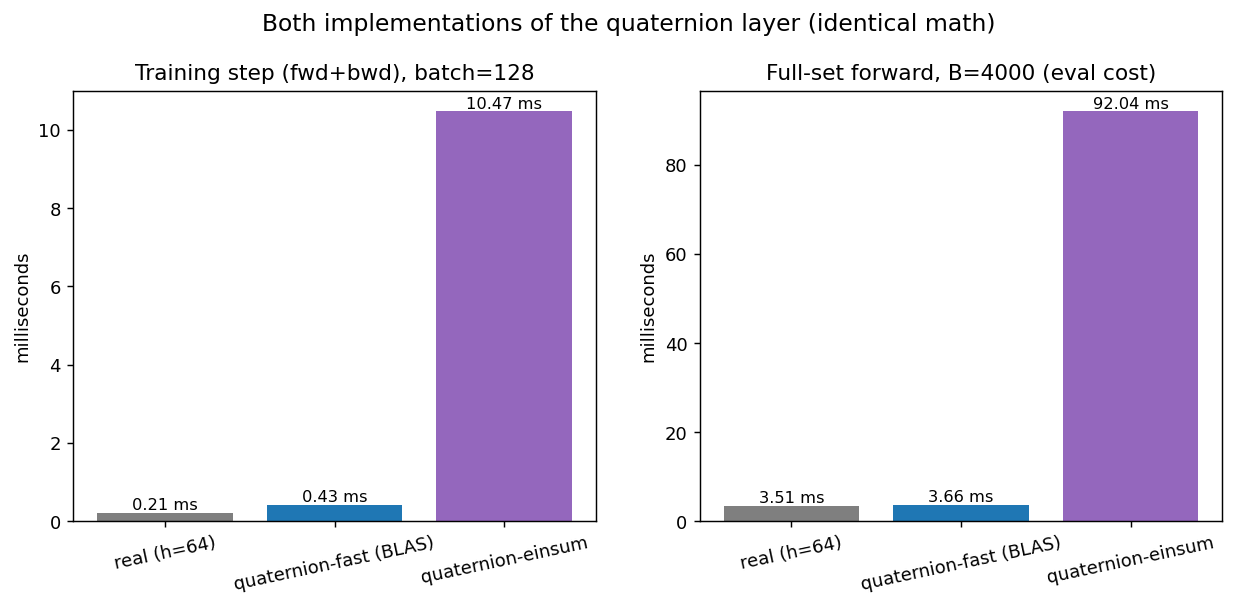
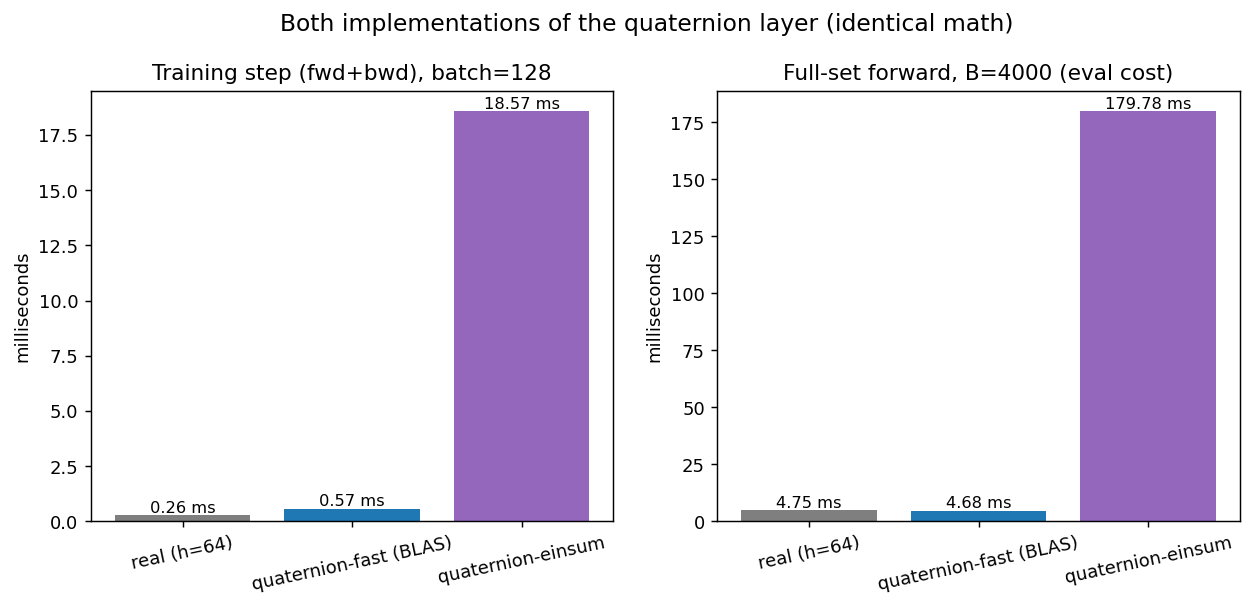
Appendix A: cite the Section 11 proofs (Theorems 11.1-11.3)
Audit pass for completeness: figures on disk match paper references exactly
(fig1..fig23), all eight source modules run clean (verification, spinor, dirac,
qnn, ledger, logic), and every logic.py check reports 0 violations. Adds the
explicit reproducibility pointer to verify_relational_proofs and
verify_correlation_trichotomy so the new proofs are listed alongside the rest.

https://claude.ai/code/session_01MugwmjAUrLrWdr1QUQvUTg

diff --git a/paper/paper.md b/paper/paper.md
@@ -1066,9 +1066,11 @@ python src/logic.py            # Section 11 -> fig16..fig23
 * `src/ledger.py` — Section 10, the $2\pi/4\pi$ geometric roots and ledger figure.
 * `src/logic.py` — Section 11, the Boolean minterm / XOR substrate, rotated conjugation,
   the gate lattice with its superset/subset maps and the `PartialLogic` data structure,
-  and the consistency cursor with the relational quaternion (all identities verified to
-  machine precision; the lattice, data-structure, cursor and relational-quaternion checks
-  each report 0 violations).
+  and the consistency cursor with the relational quaternion. All identities are verified to
+  machine precision (the lattice, data-structure, cursor and relational-quaternion checks
+  each report 0 violations); Theorems 11.1–11.3 are confirmed by `verify_relational_proofs`
+  (decomposition to $6\times10^{-14}$ over $2\times10^{4}$ random quaternions) and
+  `verify_correlation_trichotomy` (the exact logical reading, 0 violations).
 * `results/metrics.json`, `results/learning.json` — machine-readable records.
 
 ## Appendix B. Notation
